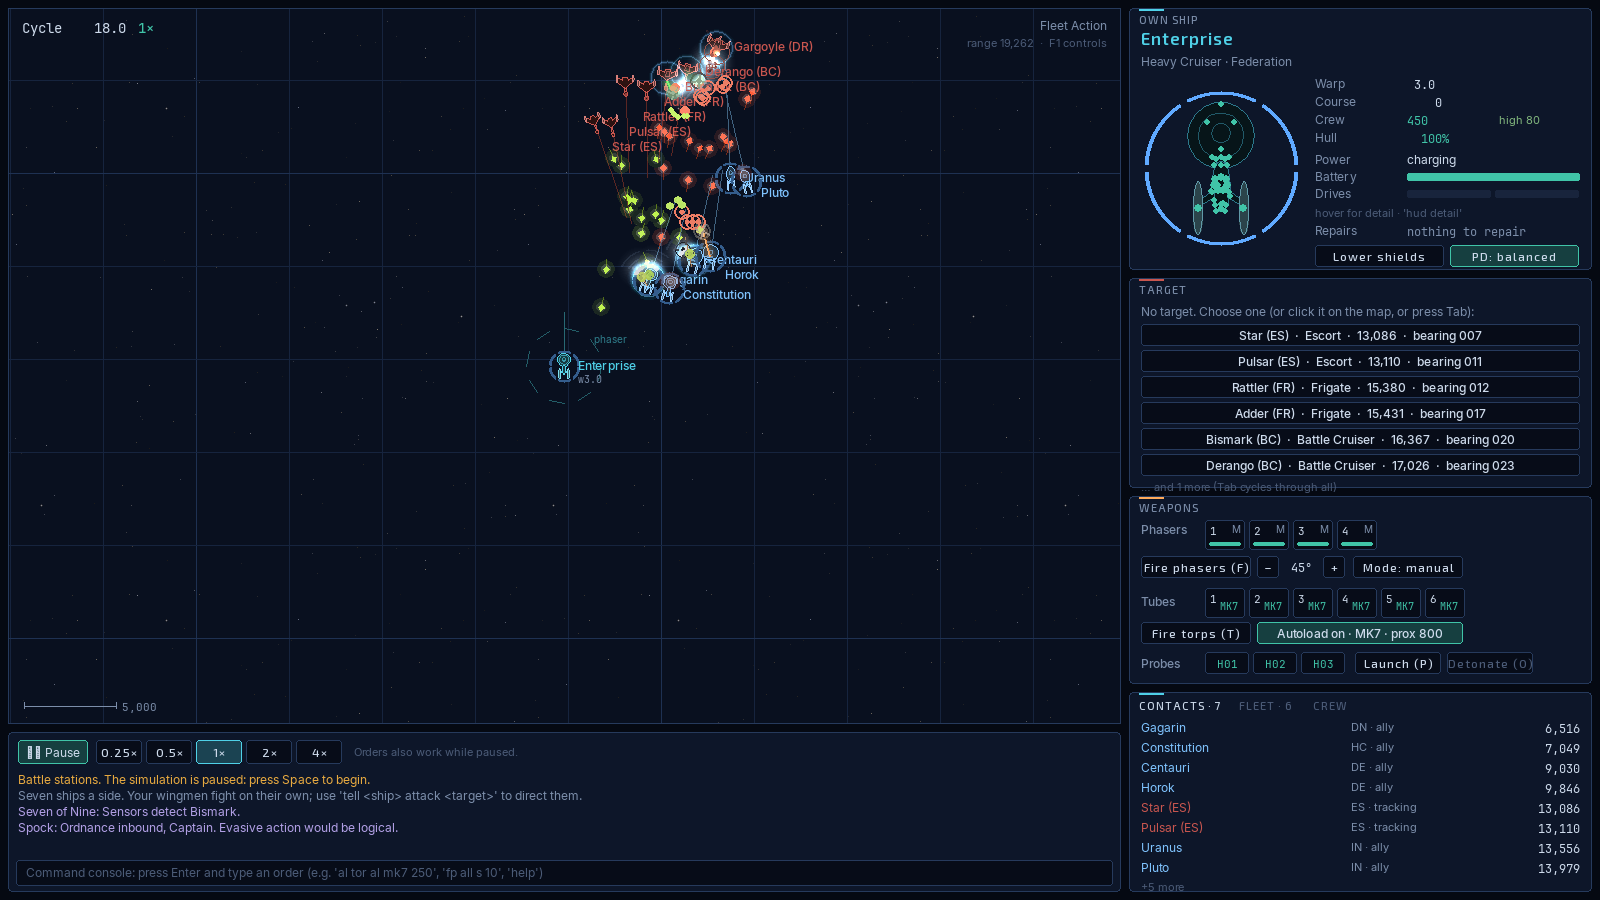
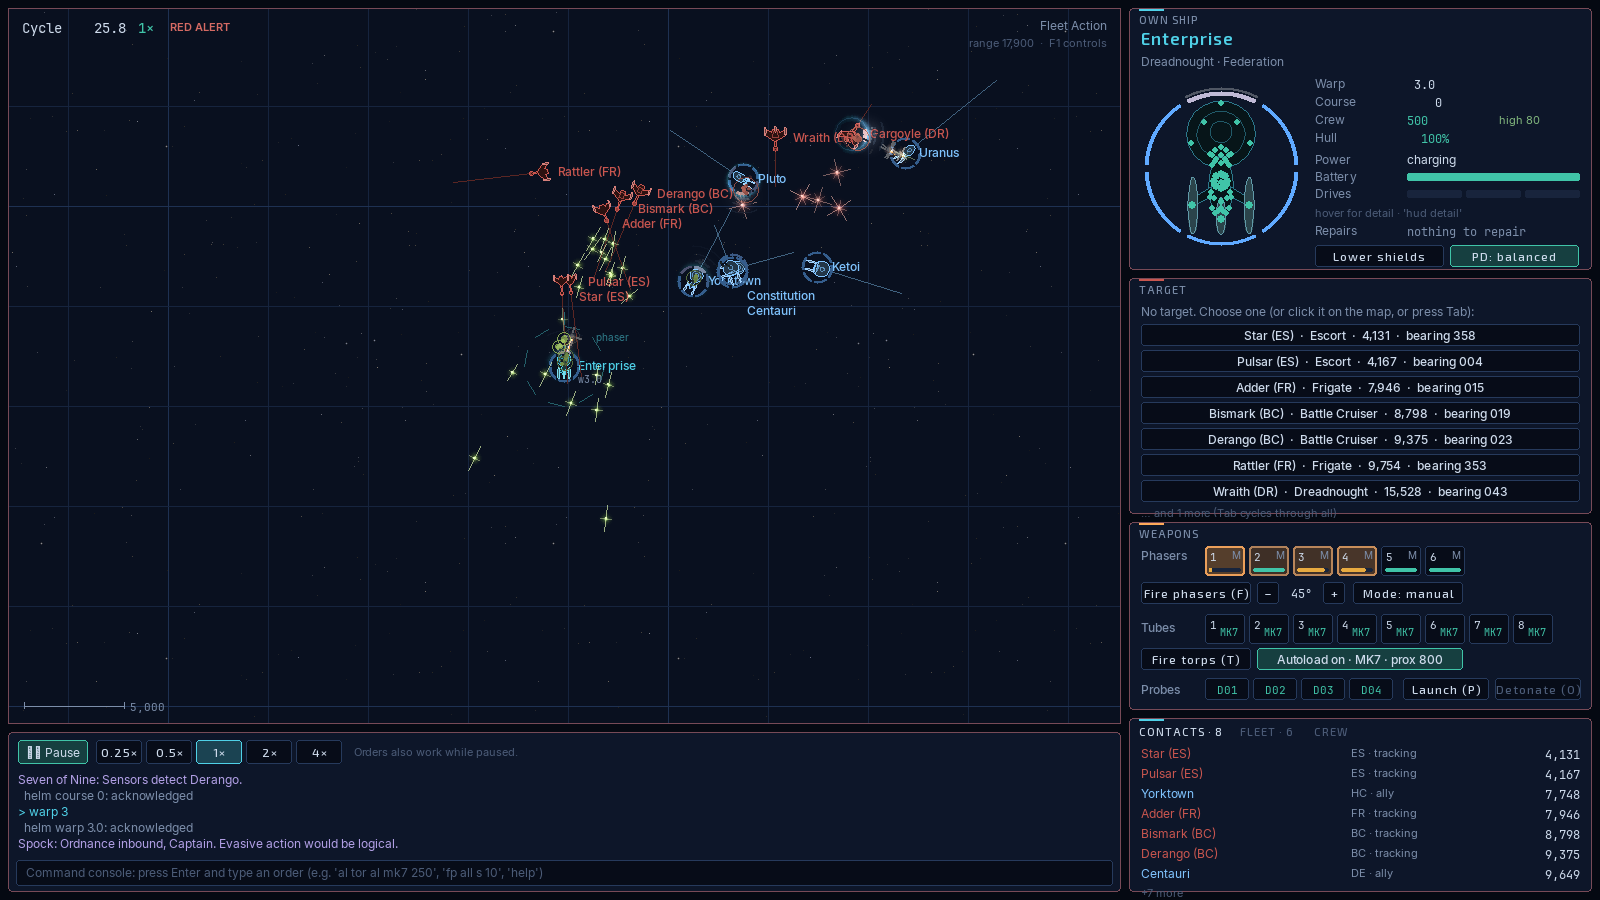
Version 1.1.0: fresh screenshots, the weapon effects in the architecture doc, release notes
The README's close-quarters, torpedoes, hud-detail and fleet-action shots
are retaken with the new beams, torpedo art and fuse rings, and the
Enterprise as a Dreadnought. ARCHITECTURE.md gains a section on how a
shot travels from the simulation's events to the beam, the delayed hits,
the additive glow layer and the sounds, and its performance figures are
re-measured, including the cost of enemy captains dodging torpedoes in
very large battles. The release notes open with what's new in 1.1.

diff --git a/src/begin/__init__.py b/src/begin/__init__.py
@@ -1,3 +1,3 @@
 """BEGIN — a tactical starship simulation, remade."""
 
-__version__ = "1.0.0"
+__version__ = "1.1.0"

diff --git a/docs/ARCHITECTURE.md b/docs/ARCHITECTURE.md
@@ -90,6 +90,24 @@ It adds frame time × speed to an accumulator and steps the world in fixed ticks
 - the console and its log;
 - any open overlay: Begin's text reports (`console/reports.py`) or the manual (`ui/manual.py`, which renders `ui/markdown.py`).
 
+### Weapon effects, hits and sound
+
+The simulation decides every blow within one tick; the front end spreads what happened over the next fraction of a second so it reads the way it would on screen. The pieces fit together like this.
+
+`sim/events.py` carries what the drawing needs: `PhaserFired` names the bank that fired and its `power` (the bank's charge as a share of full, set in `sim/systems/phasers.py`), `ShieldHit` names the struck facing, its strength left and whether it collapsed, `HullHit` the damage that got through, and `SubsystemDamaged` the system hit.
+
+`ui/beams.py` draws a shot. A `Beam` follows a fixed timeline (`Beam.timeline()`): the firing bank glows as it charges (0.12 s, skipped for point defence), a bright tip races out to the target (0.07 s), the beam holds for a time that grows with its power, then fades. It is drawn in three layers: a soft wide glow, a coloured body and a white-hot core, so a full-power volley looks heavier than a weak or point-defence shot. A `Stop` cuts the beam where the blow really landed: at the target's shield circle if the shield held, or at the hull if the hit got through. Races whose `colors.phaser_style` is `pulse` (Klingons and Orions) fire disruptor bolts instead of a steady beam, real bolts that fly the distance one after another.
+
+`ui/torpedo_art.py` draws torpedoes in flight. Each faction's look (`colors.torpedo_style` in `factions.toml`: photon, disruptor, plasma or pulse) is its own function; `round_size` scales a round by its warhead and keeps it a few pixels across at any zoom.
+
+`ui/effects.py` (`Effects.ingest`) turns a tick's events into effects. It reads the shots first, because the simulation emits a shot's hits before the shot itself, and records in `Effects.landing` how long each shooter's beam takes to reach each target. Everything that a blow causes then waits for that delay: the shield flash on the struck arc, the sparks of a collapse, hull fire and venting, a system blast, the map's jolt when our own ship is hit hard, and the sounds. Torpedo blasts are sized by yield, and a launch shows a muzzle flash at the tube.
+
+Light is added rather than painted. `TacticalView` keeps one black `_glow` surface the size of the map, the effects draw their glow into it (`blast.add_light` stamps cached soft halos), and it is blitted onto the map with `BLEND_RGB_ADD`, so overlapping light brightens instead of greying. Crisp lines (beam cores, rays, rings) go on the alpha overlay as before.
+
+`TacticalView` also marks rounds heading for us (`_inbound`: within 9,000 units and pointed at us within 14°) with their fuse ring, or with a chevron at the edge of the map when they are off screen, and plays the incoming warning once per round. The jolt (`hud jolt on|off`) offsets the camera for a moment after a heavy hit and settles quickly.
+
+`ui/audio.py` synthesises every sound at start-up from plain sample arithmetic (no recordings, no numpy): phaser charge and ray, torpedo tube thunk, incoming whoosh, shield, collapse and hull hits, the three-whoop red alert, lock chirp, console confirm and deny tones, hail whistles, and the ship's hum. Each sound also has a low-passed copy that is played instead when the source is far away (level below `FAR_LEVEL`). `Audio.events` turns events into sounds, panned by position and delayed by `Effects.landing` (held in `Audio._later` and released by `Audio.tick`). The hum loops on a reserved channel, follows the warp setting, and ducks under the loud sounds in `LOUD`; its level is `settings.hum` (`sound hum off|on|0-100`). Nothing plays when sound is off.
+
 `MenuScene` draws the starfield and the flybys from `ui/showpiece.py`, which plans each pass as a straight line across the screen at one heading, fires phasers and torpedoes along it and draws them with additive glow. The ship sprites it uses are PNGs in `assets/ships/`, baked by `tools/render_ship.py` (which needs numpy; the game does not).
 
 Every other class has baked art too, in `assets/ships/fleet/`, made by `tools/render_fleet.py` from the class's hull in `hulls.toml`: each shape becomes part of a height field (domes, saucers, bevelled slabs, nacelle capsules, raised details), lit and plated in its faction's colours, one sprite per 30° of heading on a canvas centred on the hull origin. `ui/fleet_art.py` loads them (`fleet_image`), and the tactical map (`TacticalView._sprite`, own ships and identified contacts) and the tour screens (`tour_art.ship_art`) draw a class with its sprite when there is one and fall back to the outline when there isn't. Change a hull and run `PYTHONPATH=src python tools/render_fleet.py <class-id>` to rebake it.
@@ -133,14 +151,16 @@ Measured in the cloud container (software rendering, no GPU, a 2.1 GHz Xeon) wit
 
 | Battle | Ships | Update | Draw (mean, 95th percentile) |
 |---|---|---|---|
-| Border Incident, 1600×900 | 2 | 0.11 ms | 5.8 ms, 8.4 ms |
-| Starbase Defense, 1600×900 | 6 | 0.15 ms | 6.0 ms, 8.1 ms |
-| Fleet Action, 1600×900 | 14 | 0.23 ms | 7.1 ms, 10.4 ms |
-| Fleet Action, 2560×1440 | 14 | 0.18 ms | 11.8 ms, 15.3 ms |
+| Border Incident, 1600×900 | 3 | 0.11 ms | 5.4 ms, 7.2 ms |
+| Starbase Defense, 1600×900 | 7 | 0.18 ms | 5.9 ms, 7.6 ms |
+| Fleet Action, 1600×900 | 15 | 0.32 ms | 7.0 ms, 10.2 ms |
+| Fleet Action, 2560×1440 | 15 | 0.18 ms | 11.2 ms, 13.0 ms |
+
+The weapon effects (charging banks, three-layer beams, additive glow, the torpedo art) cost a few tenths of a millisecond a frame on top of the figures before them (measured 11 November 2026).
 
 Drawing is nearly all of the frame. The same labels are drawn every frame, so `theme.render` caches finished lines of text and `hulls` caches the hull outlines; without those caches Fleet Action took 12.0 ms to draw at 1600×900 and 18.1 ms at 2560×1440, past the 16.7 ms a frame that 60 FPS allows. A surface returned by `theme.render` is shared, so draw it but never draw on it.
 
-The simulation costs about 0.3 ms a tick for a duel, 0.9 ms with 14 ships and 4 ms with Begin's limit of 60 (`tools/bench.py` times fleets of each size with AI on both sides). At 4× speed that is 40 ticks a second, well within budget even at the limit. Per-tick work that looks at every pair of ships gathers its lists once per tick or per choice rather than once per ship or per contact (`World._escapes`, `AICaptain._scoring_sets`).
+The simulation costs about 0.5 ms a tick for a duel, 4 ms with 14 ships and about 21 ms with Begin's limit of 60 (`tools/bench.py` times fleets of each size with AI on both sides). Most of that is enemy captains dodging torpedoes (`AICaptain._dodge`, which plans with the officers' `crew/helm.plan_helm` and tests each candidate course against every round in flight); before captains dodged, the same runs took about 0.4, 1 and 4.5 ms. The cost comes in bursts while torpedoes are in the air. The presets (15 ships at most) stay well inside the frame budget at every speed, but a custom battle near the 60-ship limit at 4× would drop frames. Per-tick work that looks at every pair of ships gathers its lists once per tick or per choice rather than once per ship or per contact (`World._escapes`, `AICaptain._scoring_sets`).
 
 ## Checking a change
 

diff --git a/README.md b/README.md
@@ -15,7 +15,7 @@ You command a starship from a top-down tactical map and a Begin-style command co
 - every ship class drawn as a lit, detailed model;
 - synthesised sound and effects, and a HUD that keeps to the essentials until you ask for more.
 
-![Close quarters: the Enterprise's phasers on a Klingon battle cruiser, its shield taking the hit](docs/screenshots/close-quarters.png)
+![Close quarters: the Enterprise's phaser banks on a Klingon battle cruiser, the beams stopping on her lit shield](docs/screenshots/close-quarters.png)
 
 ## A campaign Begin never had
 
@@ -81,7 +81,7 @@ Left-click a contact (or press **Tab**) to target it, and **R** cycles precision
 
 The map shows what your sensors know and nothing more. A phaser bank lights up before it fires, then its beam races to the target and stops on the shield, or reaches the hull and throws sparks if it got through; Klingon and Orion disruptors fly as bolts. Torpedoes are drawn each nation's own way (a turning photon star, a harsh disruptor flare, a wobbling plasma ball) and leave a stream of sparks behind them, and an enemy round heading for you is ringed with its fuse radius. A shield facing that gives way bursts into sparks, breached hulls vent, shields ripple along the struck arc, ships leave engine wakes, shields light up where they're struck, hull hits burst into fire, a destroyed ship blows apart in a flash, fireball and shockwave with her hull torn into burning pieces, and the panel borders pulse red at red alert. When you pick a target, its brackets swing in from wide and close on it, then pulse gently while the lock holds. Zoom right in on a Federation heavy cruiser and the map swaps the outline for the same lit, plated ship as the menu; every other class, the Enterprise's Dreadnought included, has lit art of its own.
 
-![Torpedoes in flight with fading trails, glowing point-defense beams, and the lock closed on the target](docs/screenshots/torpedoes.png)
+![A phaser beam stops on the Wraith's shield while point defense lances a Klingon round; the rounds coming for us are ringed with their fuse radius](docs/screenshots/torpedoes.png)
 
 ### How much the HUD shows
 

diff --git a/packaging/RELEASE_NOTES.md b/packaging/RELEASE_NOTES.md
@@ -1,3 +1,13 @@
+## What's new in 1.1
+
+**Weapons you can read at a glance.** A phaser bank glows as it charges, then its beam races to the target and stops where the blow really landed: on the shield if it held, on the hull if it got through. A full-power volley is heavier than a weak or point-defense shot. Klingon and Orion disruptors fly as real bolts. Torpedoes are drawn each nation's own way (a turning photon star, a harsh Klingon flare, a wobbling Romulan plasma ball) and stay easy to find at any zoom, and a round heading for you is ringed with its fuse radius, or marked at the edge of the map when it's off screen.
+
+**Hits you can feel.** The struck shield arc lights up, a facing that gives way bursts into sparks, breached hulls vent, system hits flash, and a heavy blow on your own ship jolts the map (`hud jolt off` turns that off).
+
+**A fuller soundscape**, all synthesised by the game, and only when sound is on: phaser charge and ray, the torpedo tube, an incoming warning, shield, collapse and hull hits, a three-whoop red alert, lock and console tones, hail whistles, distant fire heard muffled, and a low ship's hum that follows your warp and ducks under the big moments (`sound hum off`, or `sound hum 0-100`).
+
+**Tougher enemies.** The Enterprise is a Dreadnought from the start, and enemy captains now dodge torpedoes, fire snap shots, flee blasts and fight in their nation's style (Klingons charge, Romulans feint, Orions raid), with fleets sized to match. The HUD no longer overlaps PAUSED and RED ALERT, and drawing is faster.
+
 ## Download and play
 
 Pick the file for your computer below. You don't need Python or anything else installed.
